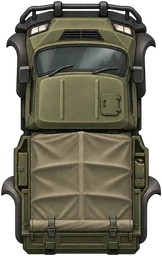
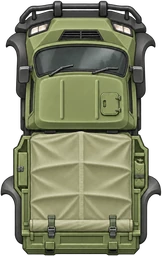
Apply approved medium olive colors to friendly wheeled vehicles

diff --git a/index.html b/index.html
@@ -5,7 +5,7 @@
 <meta name="viewport" content="width=device-width, initial-scale=1, maximum-scale=1, user-scalable=no, viewport-fit=cover">
 <meta name="apple-mobile-web-app-capable" content="yes">
 <meta name="mobile-web-app-capable" content="yes">
-<title>こっそり戦車大作戦 2026.11.22.0745</title>
+<title>こっそり戦車大作戦 2026.11.22.0840</title>
 
 <style>
 .sound-control{display:flex;align-items:center;gap:7px;align-self:flex-start;width:auto;min-height:44px;margin:0;padding:0 8px 0 0;border:0;border-radius:0;background:transparent;text-align:left;color:#fff5cc;font:700 18px system-ui;cursor:pointer;touch-action:manipulation}
@@ -1017,8 +1017,8 @@ body.stage-preparing #stageLoadingScreen{display:flex;align-items:center;justify
 <div id="missionHud" role="status"></div>
 
 <script src="js/player-tank-art.js?v=2026.11.22.0147"></script>
-<script src="js/truck-art.js?v=2026.11.22.0745"></script>
-<script src="js/armored-car-art.js?v=2026.11.22.0745"></script>
+<script src="js/truck-art.js?v=2026.11.22.0840"></script>
+<script src="js/armored-car-art.js?v=2026.11.22.0840"></script>
 <script src="js/audio.js?v=2026.11.17.1611"></script>
 <script src="js/bgm.js?v=2026.11.19.2241"></script>
 <script src="js/audio-recovery.js?v=2026.10.28.1725"></script>
@@ -1032,7 +1032,7 @@ const cv=document.getElementById('c'),gm=gameCanvasContext(cv,{alpha:false}),oc=
 const canvasCreationDiagnostics={requested:MOBILE_READBACK_CANVAS,accepted:null};
 try{const attributes=gm.getContextAttributes?.();if(attributes&&typeof attributes.willReadFrequently==='boolean')canvasCreationDiagnostics.accepted=attributes.willReadFrequently;}catch(_){}
 window.tankCanvasDiagnostics=canvasCreationDiagnostics;
-const GAME_VERSION='2026.11.22.0745',FILE_CREATED_AT='2026/11/22 07:45',DRILL_ACTIVE=5,DRILL_RECHARGE=6,DIG_PREP_DURATION=.5;
+const GAME_VERSION='2026.11.22.0840',FILE_CREATED_AT='2026/11/22 08:40',DRILL_ACTIVE=5,DRILL_RECHARGE=6,DIG_PREP_DURATION=.5;
 // 表示・保存用のm換算。移動・評価は内部座標のまま扱う。
 const distanceMeters=distance=>Math.round(Math.max(0,distance)/10);
 let audioCtx=null,gameAudioOutput=null;

diff --git a/js/truck-art.js b/js/truck-art.js
@@ -3,7 +3,7 @@ let truckArtworkImage=null,truckTireStrip=null;
 function loadTruckArtwork(){
  if(truckArtworkImage)return truckArtworkImage;
  truckArtworkImage=new Image();truckArtworkImage.decoding='async';
- truckArtworkImage.src='assets/vehicles/player/truck/body.webp';
+ truckArtworkImage.src='assets/vehicles/player/truck/body.webp?v=2026.11.22.0840';
  return truckArtworkImage;
 }
 function truckTirePhase(vehicle,x,y,body){

diff --git a/js/armored-car-art.js b/js/armored-car-art.js
@@ -4,7 +4,7 @@ function armoredCarImage(layer){
  let image=armoredCarArtwork.get(layer);
  if(!image){
   image=new Image();image.decoding='async';
-  image.src='assets/vehicles/player/armored/'+layer+'.webp';armoredCarArtwork.set(layer,image);
+  image.src='assets/vehicles/player/armored/'+layer+'.webp?v=2026.11.22.0840';armoredCarArtwork.set(layer,image);
  }
  return image;
 }

diff --git a/docs/armored-car-art/README.md b/docs/armored-car-art/README.md
@@ -30,3 +30,15 @@ visually reviewed. Tests cover six tire positions, body/turret aspect ratios,
 independent rotations, pivot placement, shared resources, signed motion, pause,
 owner forwarding, loading fallback and existing wheeled-vehicle behavior.
 iPhone hardware has not been tested.
+
+## Medium olive color update
+
+New `*-mid-olive-master.png` originals preserve the earlier source PNGs.
+Image-tool edit prompt: change paint only to the approved medium olive-sage
+reference (midtones #83925a, highlights #a4b77a, shadows #52683d), retaining
+top-down geometry, dark hardware, transparent tire openings and thin outlines.
+Truck canopy uses warm khaki sage #a7ae82. Runtime dimensions and draw sizes
+remain unchanged; URL versions invalidate cached images.
+Hull uses the same canvas dimensions. Turret content is fitted back into
+the original 270×470 source crop, bounds (19,16)-(251,453), retaining the
+(135,321) rotation pivot before reduction to 147×256 WebP.

diff --git a/docs/truck-art/README.md b/docs/truck-art/README.md
@@ -29,3 +29,13 @@ Validation: composited native Canvas render reviewed with three tread phases;
 unit checks cover shared assets, four tire positions, preserved body aspect ratio,
 alpha, repeat draws, idle, reverse, pause, turning, fuel stops, coasting, teleports,
 normal drawVehicle routing and the legacy enemy path. iPhone hardware not tested.
+
+## Medium olive color update
+
+New `*-mid-olive-master.png` originals preserve the earlier source PNGs.
+Image-tool edit prompt: change paint only to the approved medium olive-sage
+reference (midtones #83925a, highlights #a4b77a, shadows #52683d), retaining
+top-down geometry, dark hardware, transparent tire openings and thin outlines.
+Truck canopy uses warm khaki sage #a7ae82. Runtime dimensions and draw sizes
+remain unchanged; URL versions invalidate cached images.
+Truck uses the same source crop as before.
